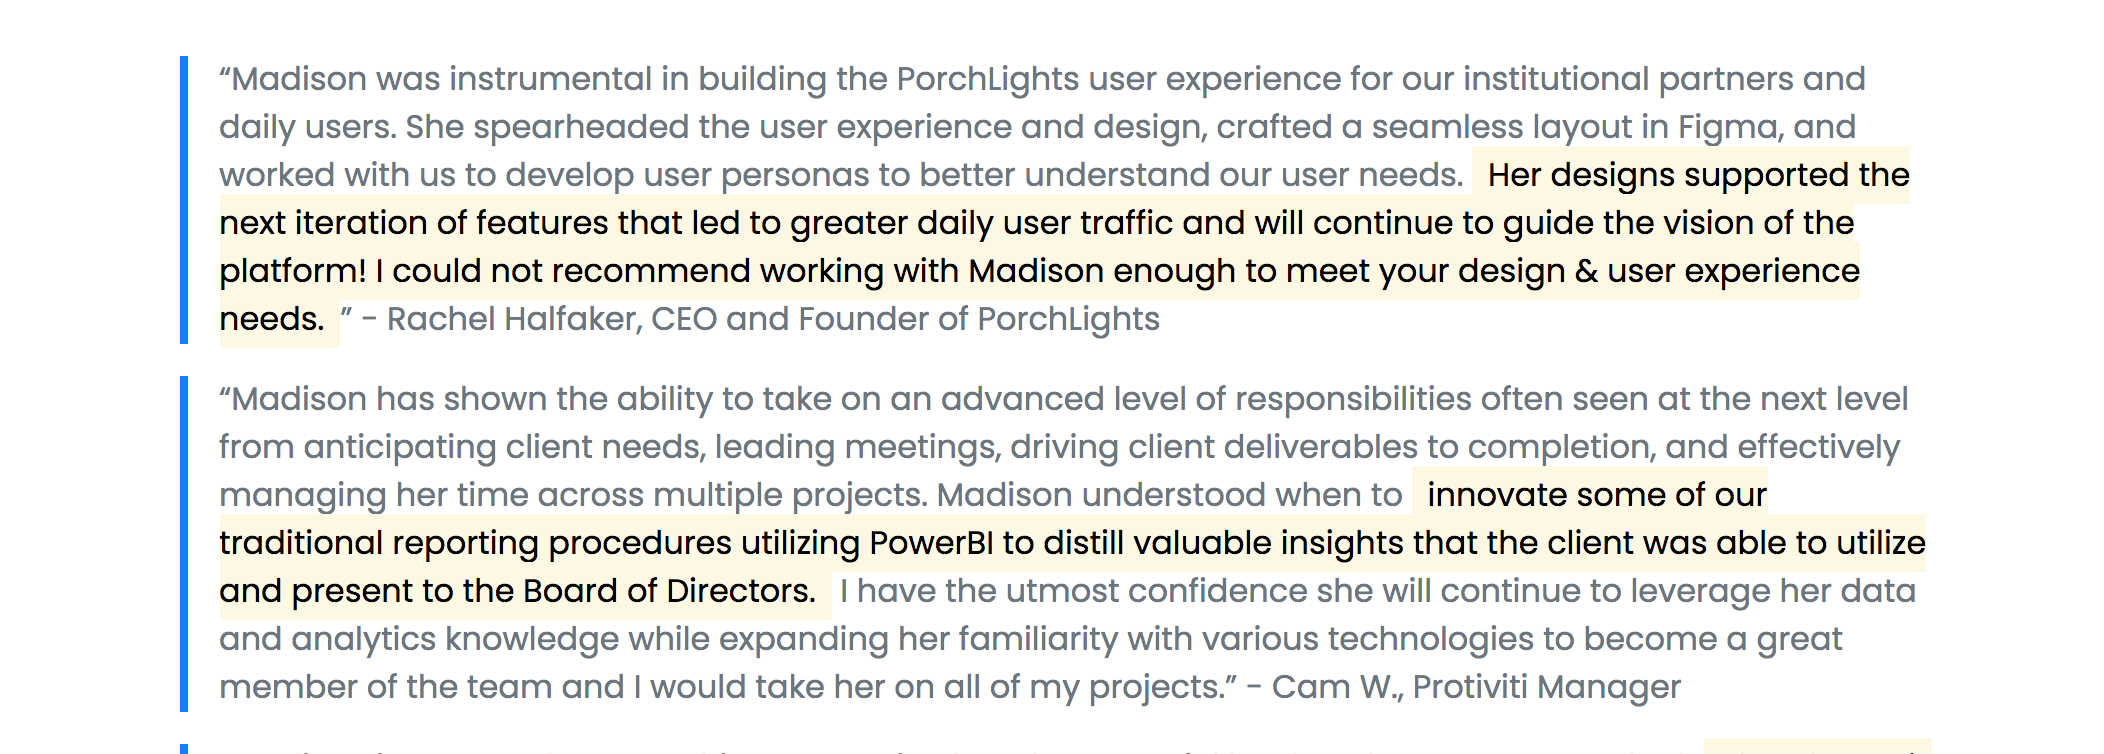
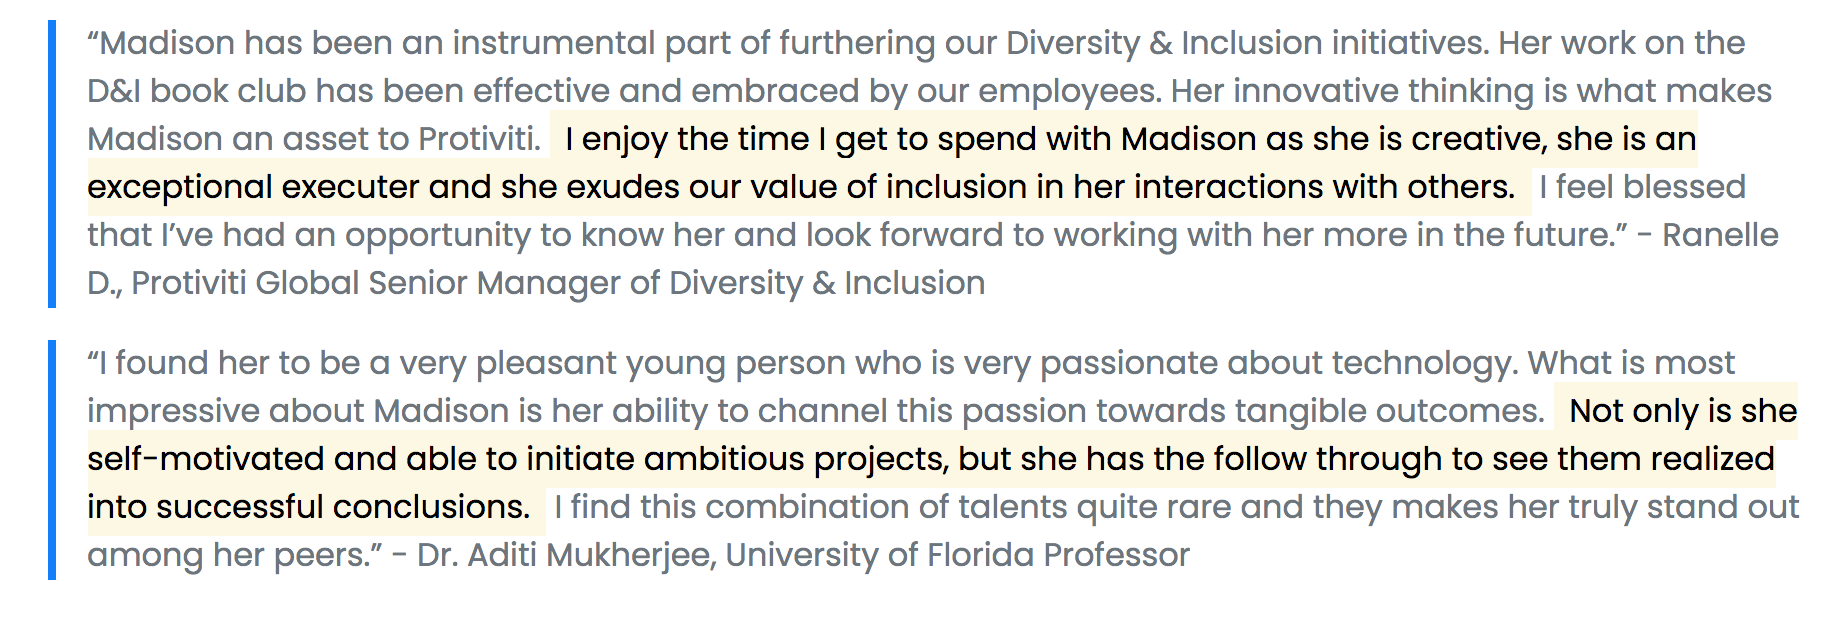
carousel

diff --git a/_includes/carousel.html b/_includes/carousel.html
@@ -98,12 +98,12 @@
   opacity: 1;
 }
 .carousel__control--backward {
-  left: 20px;
+  left: 30px;
   -webkit-transform: rotate(-135deg);
           transform: rotate(-135deg);
 }
 .carousel__control--forward {
-  right: 20px;
+  right: 30px;
   -webkit-transform: rotate(45deg);
           transform: rotate(45deg);
 }
@@ -112,6 +112,7 @@
   bottom: 20px;
   width: 100%;
   text-align: center;
+  color: gray;
 }
 .carousel__indicator {
   height: 15px;
@@ -122,6 +123,7 @@
   cursor: pointer;
   opacity: 0.35;
   margin: 0 2.5px 0 2.5px;
+  color: gray;
 }
 .carousel__indicator:hover {
   opacity: 0.75;

diff --git a/pages/about.md b/pages/about.md
@@ -18,12 +18,6 @@ Here's what people are saying about me and my work:
 
 {% include carousel.html height="50" unit="%" duration="7" %}
 
-> "Madison was instrumental in building the PorchLights user experience for our institutional partners and daily users. She spearheaded the user experience and design, crafted a seamless layout in Figma, and worked with us to develop user personas to better understand our user needs. {% include elements/highlight.html text="Her designs supported the next iteration of features that led to greater daily user traffic and will continue to guide the vision of the platform! I could not recommend working with Madison enough to meet your design & user experience needs." %}" - Rachel Halfaker, CEO and Founder of PorchLights
-
-> “Madison has shown the ability to take on an advanced level of responsibilities often seen at the next level from anticipating client needs, leading meetings, driving client deliverables to completion, and effectively managing her time across multiple projects. Madison understood when to {% include elements/highlight.html text="innovate some of our traditional reporting procedures utilizing PowerBI to distill valuable insights that the client was able to utilize and present to the Board of Directors." %} I have the utmost confidence she will continue to leverage her data and analytics knowledge while expanding her familiarity with various technologies to become a great member of the team and I would take her on all of my projects." - Cam W., Protiviti Manager
-
-> "Madison is among the most driven, organized, and purposeful leaders that I've ever worked! {% include elements/highlight.html text="She always is looking towards the future, identifying new opportunities to improve our firms Diversity & Inclusion efforts and taking the initiative to affect positive change." %} Any team would be incredibly lucky to have Madison join!" - Zachary A., Protiviti Co-Director of the Diversity & Inclusion Book Club
-
 > "Madison has been an instrumental part of furthering our Diversity & Inclusion initiatives. Her work on the D&I book club has been effective and embraced by our employees. Her innovative thinking is what makes Madison an asset  to Protiviti. {% include elements/highlight.html text="I enjoy the time I get to spend with Madison as she is creative, she is an exceptional executer and she exudes our value of inclusion in her interactions with others." %} I feel blessed that I've had an opportunity to know her and look forward to  working with her more in the future." - Ranelle D., Protiviti Global Senior Manager of Diversity & Inclusion
 
 > "I found her to be a very pleasant young person who is very passionate about technology. What is most impressive about Madison is her ability to channel this passion towards tangible outcomes. {% include elements/highlight.html text="Not only is she self-motivated and able to initiate ambitious projects, but she has the follow through to see them realized into successful conclusions." %} I find this combination of talents quite rare and they makes her truly stand out among her peers." - Dr. Aditi Mukherjee, University of Florida Professor
